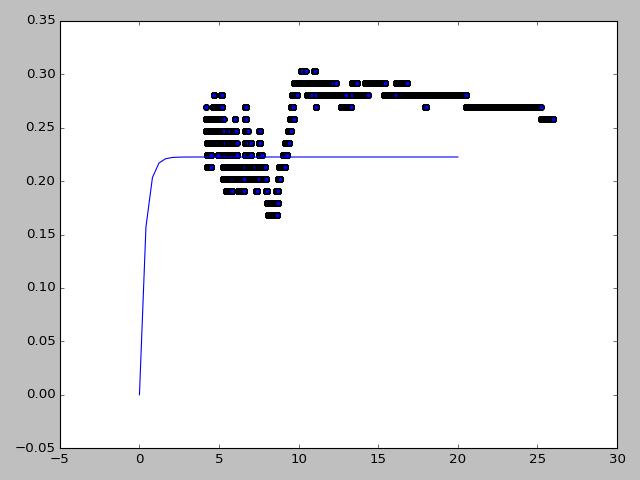
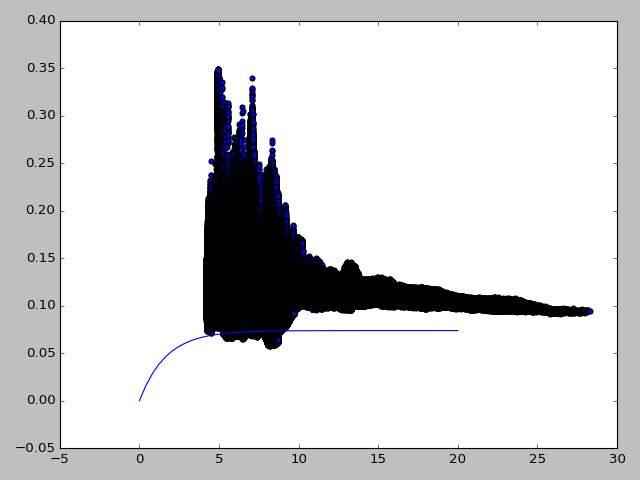
Updated readme and changed rolling window to min

diff --git a/hw2/uw_img_sim/ambient_sim.py b/hw2/uw_img_sim/ambient_sim.py
@@ -63,7 +63,7 @@ def find_ambient_beta_all_chan(E_d):
     I = [E_d.R, E_d.G, E_d.B] #[E_d[0][0], E_d[1][0], E_d[2][0]]
 
     for i in xrange(3):
-        [popt, tmp] = curve_fit(ambient_light_irradiance, distance, I[i], bounds=(0., [1, 1]))
+        [popt, tmp] = curve_fit(ambient_light_irradiance, distance, I[i], bounds=(0., [1, 0.6]))
         ambient[i] = popt[0]
         beta[i] = popt[1]
     return [ambient, beta]
@@ -119,10 +119,10 @@ if __name__ == '__main__':
     img = np.array(img, dtype='float64')/255.0
 
 
-    # a = np.array([0.228, 0.046, 0.019])
-    # b = np.array([1.22, 2.05, 3.06]) * 10 ** (-3)
-    # beta = a + b
-    # A = b/beta
+    a = np.array([0.228, 0.046, 0.019])
+    b = np.array([1.22, 2.05, 3.06]) * 10 ** (-3)
+    beta = a + b
+    A = b/beta
 
     a = np.array([0.236, 0.068, 0.077])
     b = np.array([0.314, 0.395, 0.469])
@@ -137,7 +137,8 @@ if __name__ == '__main__':
     # E = get_p_dist_all_channels(depthmap, I, 0, 'gt')
     E = create_rgbd_df(depthmap, I)
     E = E.sort_values(by=['D'])
-    E = E.rolling(1000).quantile(.01)
+    E_o = E
+    E = E.rolling(50000).min()
     E = E.dropna()
 
     [I_inf, beta_c] = find_ambient_beta_all_chan(E)
@@ -151,11 +152,11 @@ if __name__ == '__main__':
     plt.imshow(img_r)
     plt.show()
 
-    depthmap_rws = np.load('map_3d_rwc.npz')
+    depthmap_rws = np.load('map_3d_rwc2.npz')
     depthmap_rws = depthmap_rws['map_3d.npy']
 
-    img_rws = Image.open('../../hw3/images/Real_world_scenes/LFT_3266_liner_undistort.tif')
-    img_rws = np.array(img_rws, dtype='float64')/255.0
+    img_rws = cv2.imread('../../hw3/images/Real_world_scenes/LFT_4027_liner_undistort.tif', -1)
+    img_rws = np.array(img_rws, dtype='float64')/65535.0
     # max = np.array([img_rws[:,:,i].max() for i in range(3)])
     # img_rws = img_rws/max
 
@@ -167,7 +168,7 @@ if __name__ == '__main__':
     E = create_rgbd_df(depthmap_rws, img_rws)
     E = E.sort_values(by=['D'])
     E = E.dropna()
-    E_rws = E.rolling(1000).quantile(.01)
+    E_rws = E.rolling(50000).min()
     E_rws = E_rws.dropna()
 
 

diff --git a/hw3/README.md b/hw3/README.md
@@ -40,8 +40,67 @@ The results are consistant with the water types. JI has almost no backscatter, h
 
 ## Exercise 2 - Scene Reconstruction
 
+Reconstruction was done using an adaption of the algorithm in Roser et al. 2014. The paper uses a trust region approach on equations 6 and 7. Since we haven't learnt this optimisation method in class I will try doing a curve fitting approach on equation 6.
+![rosen_eq6](images/equations/Rosen2014eq6.png)
+
+The results using the 1st percentile were not good so I used a minimum rolling window of size 10k. This results in a good curve for the J1c:
+
+|![J1c_before_percentile](images/reconstruction_results/J1c_red_fit.png)|![J1c_after_percentile](images/reconstruction_results/J1c_red_fit_1st_q.png)|
+|-----------|----------|
+|J1c_before curve percentile window | J1c_after percentile window|
+
+Where the x axis is distance and y axis is intensity.
+
+The images were reconstructed using equation 8:
+
+![radiance_recovery](images/equations/Radieance_Recovery.png)
+
+Where rho is the normalised radiance. I multiplied that number by the airlight value obtained from the curve fit (I_inf). The values that were obtained were clipped to a range between 0 and 1.
+The results are good in both JI and J1c water reconstruction simulations:
+
+|Water Type|Before|After|
+|----------|------|-----|
+|J1c|![J1c_simt](images/sim_results/J1c.png)|  ![J1c_reconstruction](images/reconstruction_results/J1C_min_window.png)|
+|JI|![JI_simt](images/sim_results/JI.png)|![JI_reconstruction](images/reconstruction_results/JI_min_window.png)|
+
+I will now present the accuracy of the parameters. For JI:
+
+|variable|Red|Green|Blue|
+|--------|---|-----|----|
+|Airlight true|0.0053224|0.04266389| 0.1387126|
+|Airlight estimate|0.0054676 | 0.04172887| 0.12825527|
+|Airlight error %| 2.73| -2.19| -7.54|
+|beta true|0.22922| 0.04805| 0.02206|
+|beta estimate|0.24840542| 0.05619931| 0.02548734|
+|beta error %|-8.37| -16.96| -15.54|
+
+For J1c:
+
+variable|Red|Green|Blue|
+|--------|---|-----|----|
+|Airlight true|0.57090909| 0.85313175| 0.85897436|
+|Airlight estimate|0.57071875| 0.85278465| 0.8582655|
+|Airlight error %| -0.0333| -0.0407| -0.0825|
+|beta true|0.55 | 0.463| 0.546|
+|beta estimate|0.55760176| 0.46878319| 0.56018567|
+|beta error %|-1.382| -1.249| -2.598|
+
+Notice that the estimates are much better for the J1c water, this is due to the attenuation being more significant in this water, thus the curve we are looking for is more pronounced.
 
 
+The accuracy for estimating the scene looks good on the whole. Though there is some noticable clipping of values in both water types, much more detail can be seen in the in the J1c scene after reconstruction.
 
+## Exercise 3 - Real World results
+
+The real world results are not as good as the simulation:
+
+|Image No.|Before|After|
+|----------|------|-----|
+|3266|![rws_3266](images/Real_world_scenes/LFT_3266_liner_undistort.png)|  ![J1c_reconstruction](images/reconstruction_results/rws_3266_min_window16.png)|
+|4027|![rws_4027](images/Real_world_scenes/LFT_4027_liner_undistort.png)|![JI_reconstruction](images/reconstruction_results/rws_4077_min_windows16b.png)|
+
+There is noticable clipping in both images, with significant clipping  in 4027. An explaination for this would be the curve fit didn't work well in image 4027 as can be seen in the green and blue channels be seen in below in the distance/intensity plot for green channel:
+![4027_green_plot](images/reconstruction_results/rws_4077_green_fit.png)
+this causes the blue and especially the blue channels to oversaturate. It can also be seen in the graph that the lowest intensity data points don't exactly conform to a curve and thus it is difficult to fit a curve to the data.
 
 
